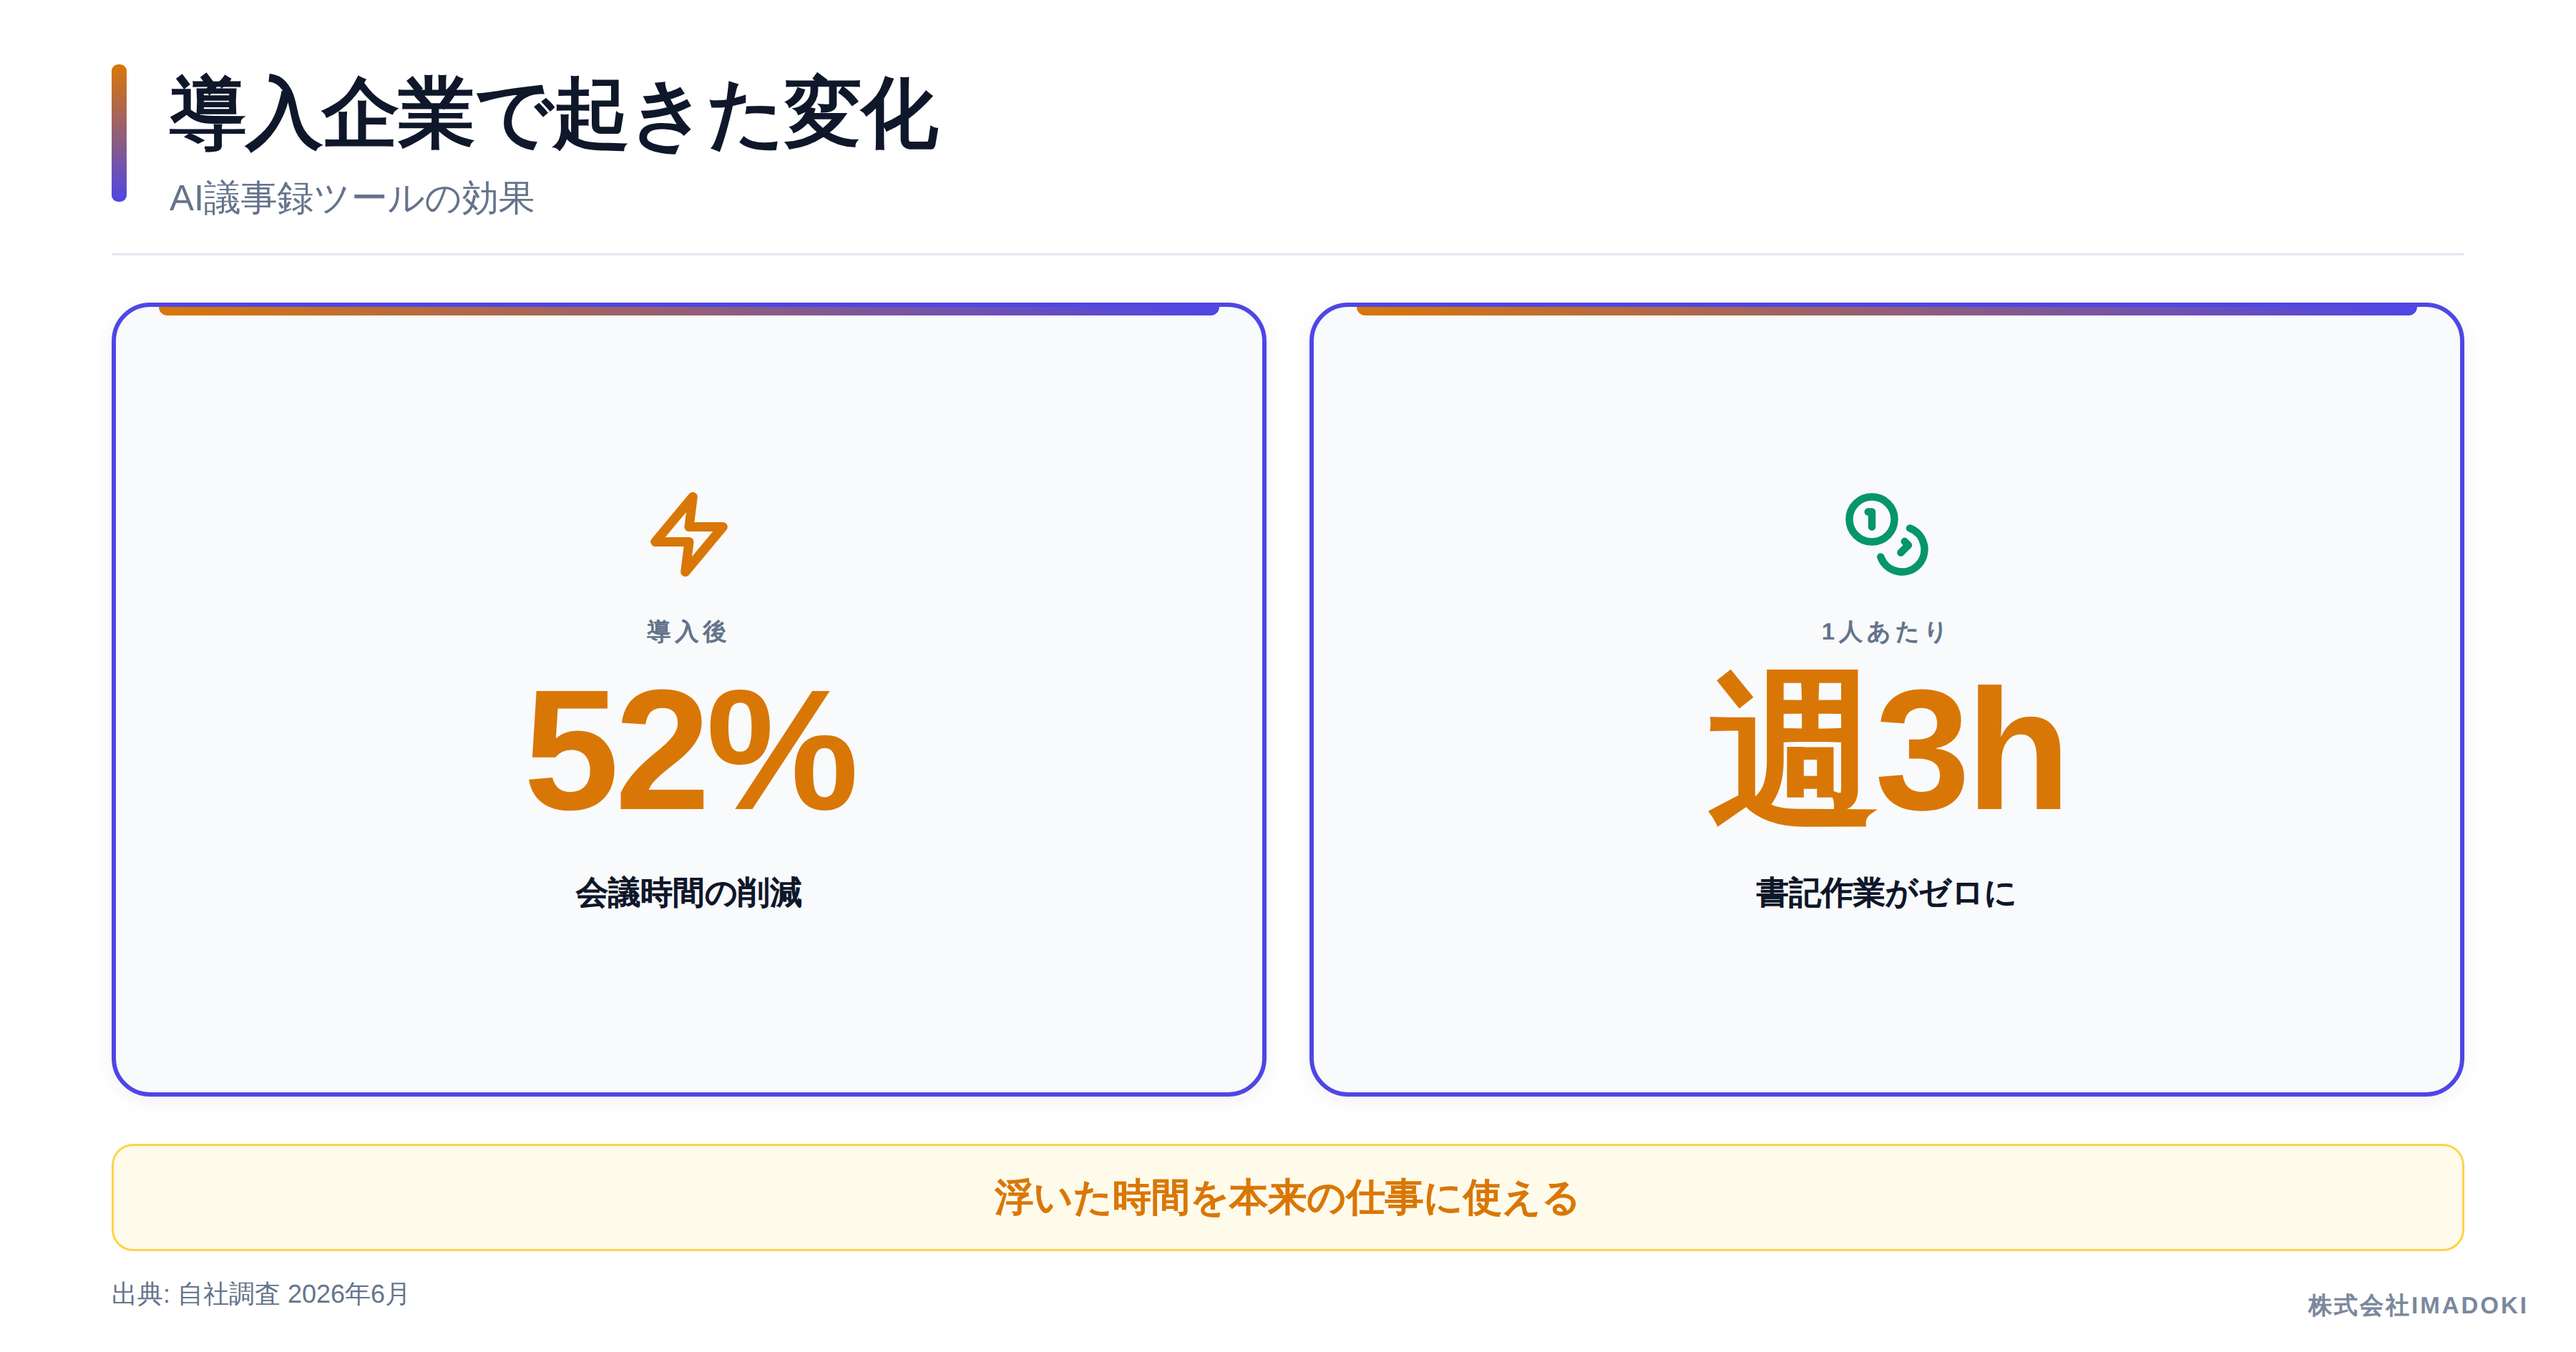
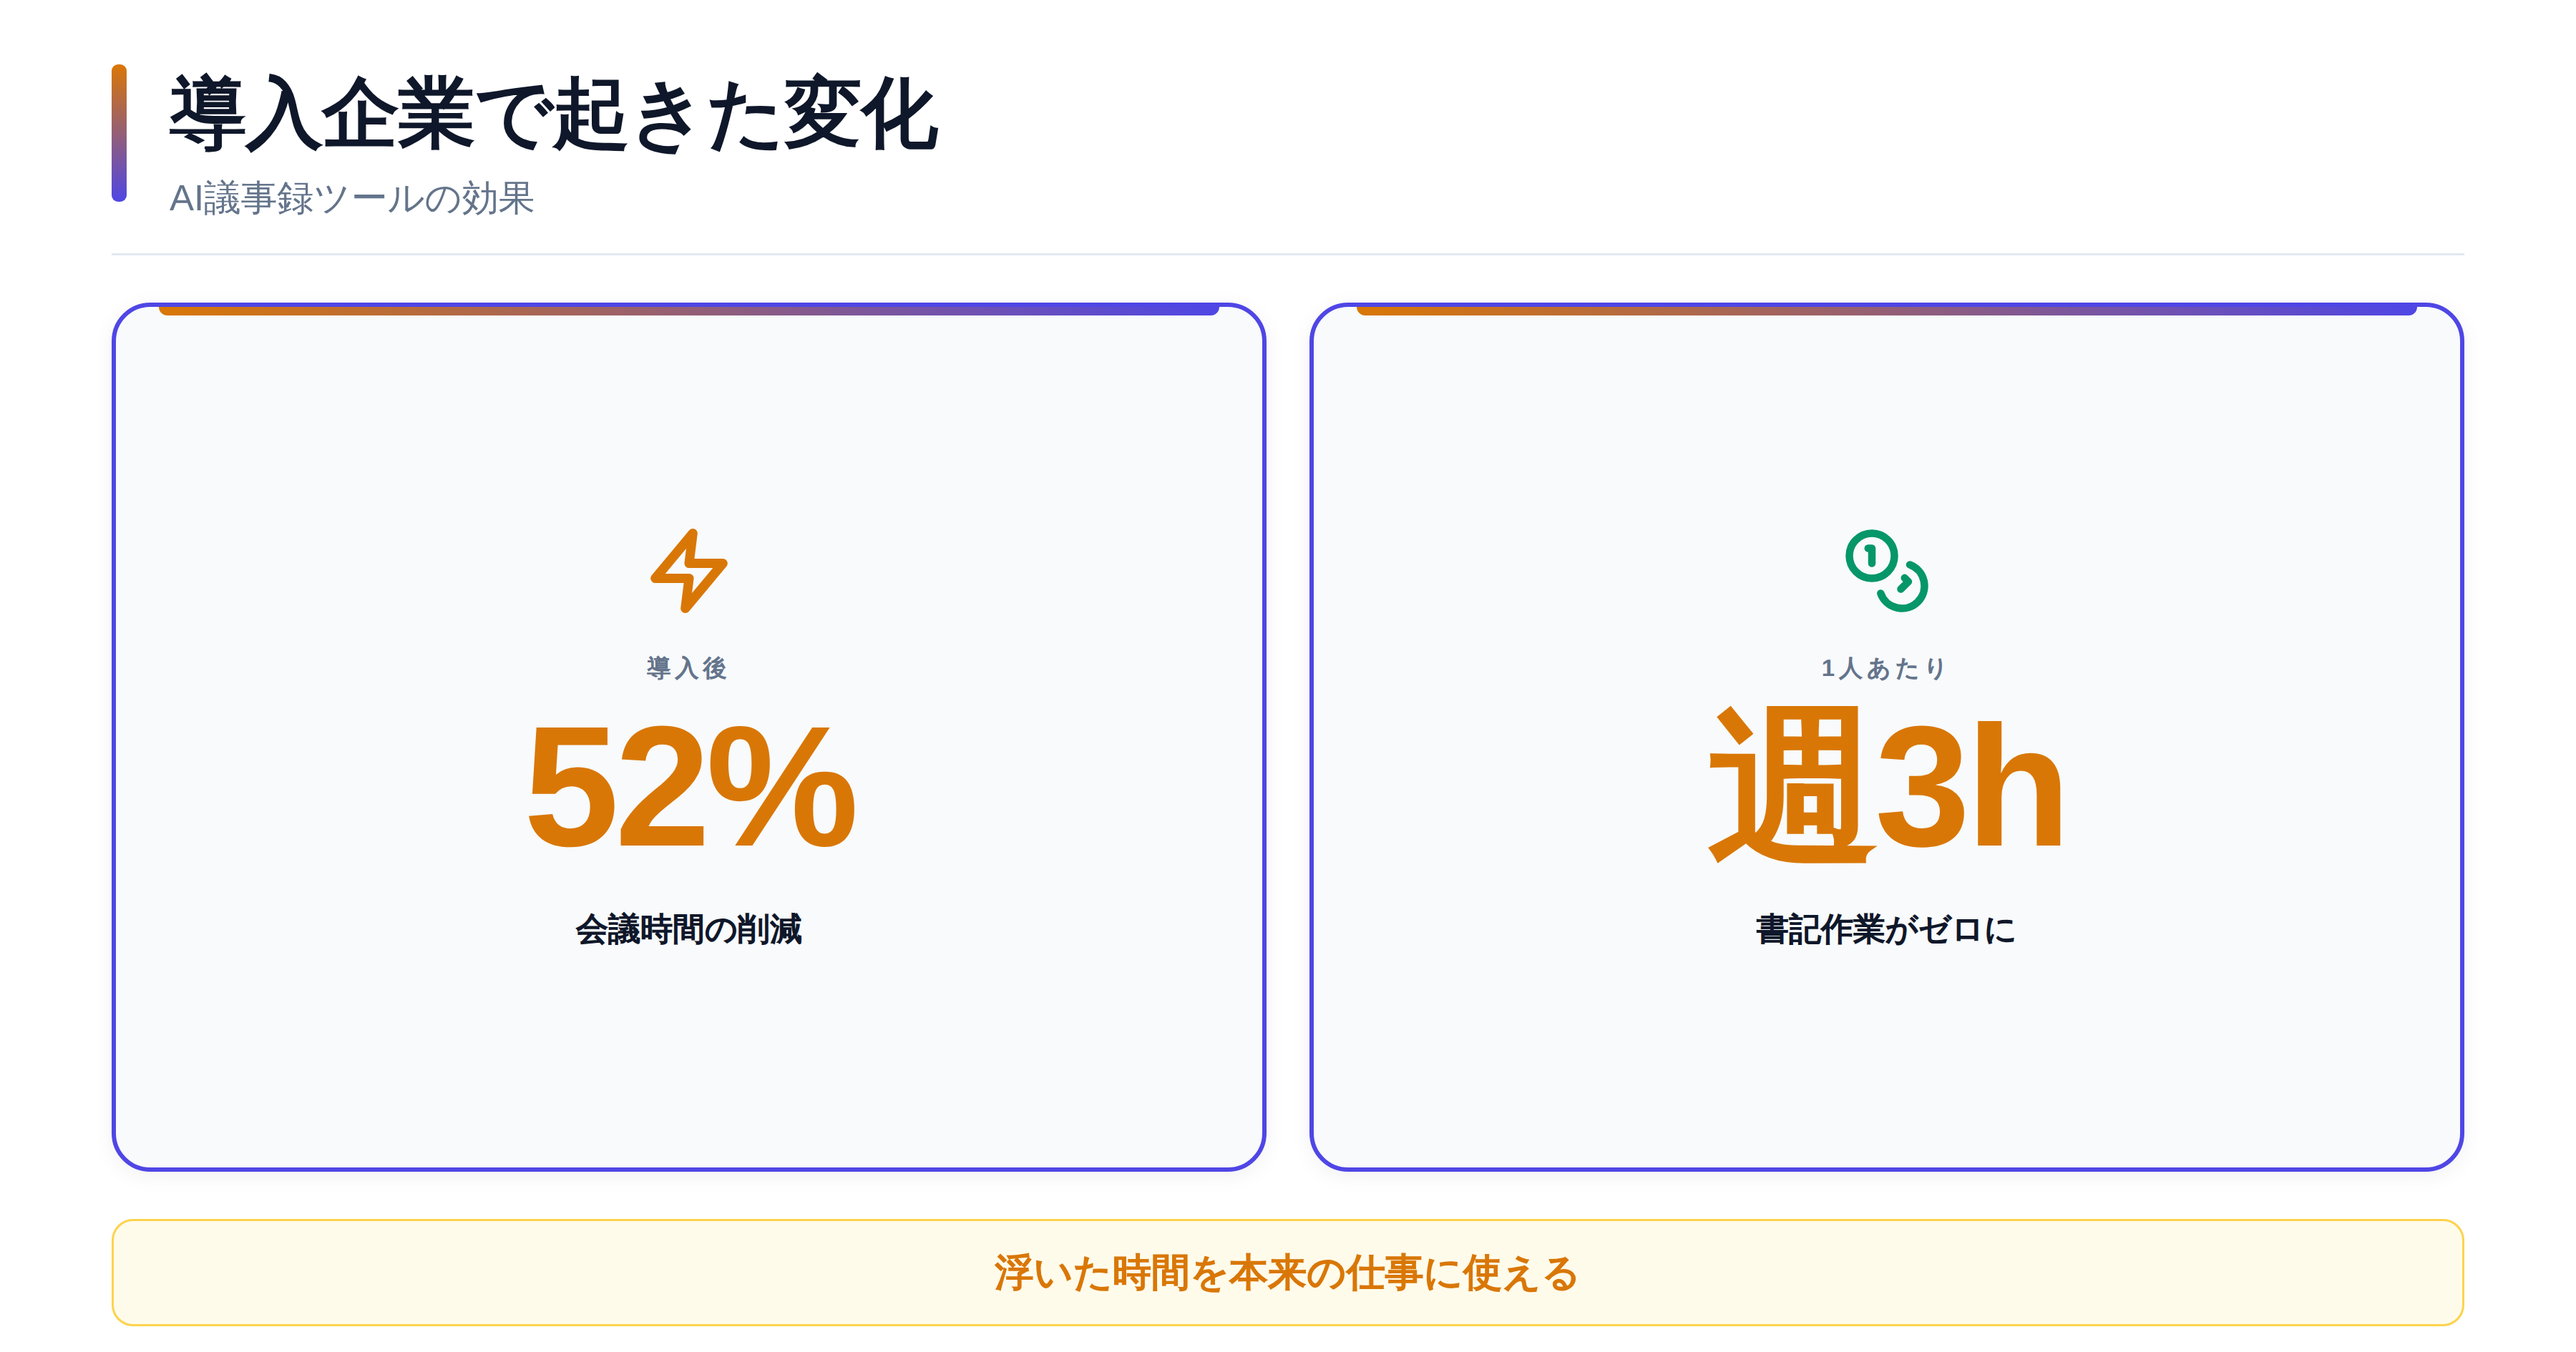
Clean sample images and add X/Threads post mockups to LP
Sample images (docs/assets/):
- regenerated all three without the 株式会社IMADOKI watermark, the
  1/3 page badge, and the fabricated-looking source caption — the
  tiny illegible text that read as mojibake at gallery scale is gone

X/Threads post preview:
- new sub-section in the proof gallery 「投稿文も、XとThreadsで自動
  書き分け」 with two CSS-built post cards: the X version (assertive,
  line-broken, with a 図解3枚+リプライ attach note) and the Threads
  version (conversational, question-ended) of the same theme,
  both adapted from actual AI-generated drafts
- captioned 「どちらも同じ朝に、同じテーマから自動生成された文章です」
- footer icons are neutral gray inline SVGs (no colored emoji mix),
  no fabricated engagement numbers

Claude-Session: https://claude.ai/code/session_01XuC2qznjLELSFa6zv1RE5v

diff --git a/docs/index.html b/docs/index.html
@@ -100,6 +100,25 @@ h1 .hl{color:var(--indigo);}
 .nm-caption{text-align:center;font-size:14.5px;color:var(--body);margin-top:18px;}
 @media(max-width:640px){.nm-head{grid-template-columns:1fr 110px;}.nm-head span:nth-child(2){display:none;}.nm-row{grid-template-columns:1fr 110px;}.nm-row .nm-img{display:none;}}
 
+/* X / Threads 投稿モック */
+.sns-sub{max-width:900px;margin:70px auto 0;text-align:center;}
+.sns-sub h3{font-size:25px;font-weight:900;margin-bottom:10px;}
+.sns-sub .lead{font-size:15px;}
+.sns-grid{display:grid;grid-template-columns:1fr 1fr;gap:22px;max-width:920px;margin:34px auto 0;align-items:start;}
+@media(max-width:820px){.sns-grid{grid-template-columns:1fr;}}
+.sns-label{font-size:13px;font-weight:700;color:var(--muted);margin-bottom:10px;text-align:left;}
+.sns-label b{color:var(--ink);}
+.sns-card{background:#fff;border:1px solid var(--line);border-radius:16px;padding:20px 22px;box-shadow:0 10px 30px rgba(15,23,42,.07);text-align:left;}
+.sns-head{display:flex;align-items:center;gap:11px;margin-bottom:12px;}
+.sns-ava{width:42px;height:42px;border-radius:50%;background:linear-gradient(135deg,var(--indigo),var(--amber-btn));flex-shrink:0;}
+.sns-name b{display:block;font-size:14px;line-height:1.3;}
+.sns-name span{font-size:12.5px;color:var(--faint);}
+.sns-tag{margin-left:auto;font-size:11px;font-weight:900;padding:4px 12px;border-radius:999px;background:var(--ink);color:#fff;}
+.sns-body{font-size:13.5px;color:var(--body);line-height:1.8;white-space:pre-line;}
+.sns-attach{margin-top:12px;border:1px solid var(--line);border-radius:12px;overflow:hidden;}
+.sns-attach-note{display:flex;align-items:center;gap:8px;margin-top:12px;background:var(--soft);border:1px dashed #cbd5e1;border-radius:10px;padding:9px 14px;font-size:12.5px;color:var(--muted);}
+.sns-foot{display:flex;gap:34px;color:var(--faint);font-size:14px;margin-top:14px;padding-top:11px;border-top:1px solid var(--soft2);}
+
 /* ギャラリー */
 figure.shot{background:#fff;border:1px solid var(--line);border-radius:18px;overflow:hidden;box-shadow:0 1px 4px rgba(15,23,42,.04);transition:box-shadow .2s;}
 figure.shot:hover{box-shadow:0 14px 34px rgba(15,23,42,.12);}
@@ -317,6 +336,60 @@ footer{border-top:1px solid var(--line);padding:38px 0;font-size:13.5px;color:va
       </figure>
     </div>
     <div class="gallery-note">📚 <b>ストーリー仕立ての複数枚スライド（起承転結カルーセル）にも対応。</b>内容の濃いテーマは、AIが自動で最大4枚のスライドに構成します。</div>
+
+    <!-- X / Threads 書き分けモック -->
+    <div class="sns-sub">
+      <h3>投稿文も、XとThreadsで自動書き分け</h3>
+      <p class="lead">アルゴリズムが違えば、伸びる文体も違う。同じテーマでも媒体ごとに最適な文章を生成します。</p>
+    </div>
+    <div class="sns-grid">
+      <div>
+        <p class="sns-label"><b>X版</b> — 断言調・テンポ重視・図解つき</p>
+        <div class="sns-card">
+          <div class="sns-head">
+            <span class="sns-ava"></span>
+            <span class="sns-name"><b>あなたの会社</b><span>@your_company</span></span>
+            <span class="sns-tag">X</span>
+          </div>
+          <p class="sns-body">「AIのプロンプトは長いほど良い」は誤解でした。
+
+自分で5個のプロンプトを40%削って試したら『あ、本当だ』って気づいた。
+
+制約が多いと、AIは『ルールの枠を出ない』ことに頭を使ってしまう。シンプルな指示1個のほうが、100%の力を引き出せます。
+
+あなたの会社、『あれもこれも禁止』の指示になってませんか？</p>
+          <div class="sns-attach-note">🖼 図解スライド3枚を自動添付（＋補足リプライも自動投稿）</div>
+          <div class="sns-foot">
+            <svg width="17" height="17" viewBox="0 0 24 24" fill="none" stroke="currentColor" stroke-width="2" stroke-linecap="round" stroke-linejoin="round"><path d="M21 11.5a8.38 8.38 0 0 1-8.5 8.5 8.5 8.5 0 0 1-3.8-.9L3 21l1.9-5.7a8.5 8.5 0 1 1 16.1-3.8z"/></svg>
+            <svg width="17" height="17" viewBox="0 0 24 24" fill="none" stroke="currentColor" stroke-width="2" stroke-linecap="round" stroke-linejoin="round"><polyline points="17 1 21 5 17 9"/><path d="M3 11V9a4 4 0 0 1 4-4h14"/><polyline points="7 23 3 19 7 15"/><path d="M21 13v2a4 4 0 0 1-4 4H3"/></svg>
+            <svg width="17" height="17" viewBox="0 0 24 24" fill="none" stroke="currentColor" stroke-width="2" stroke-linecap="round" stroke-linejoin="round"><path d="M20.84 4.61a5.5 5.5 0 0 0-7.78 0L12 5.67l-1.06-1.06a5.5 5.5 0 0 0-7.78 7.78l1.06 1.06L12 21.23l7.78-7.78 1.06-1.06a5.5 5.5 0 0 0 0-7.78z"/></svg>
+            <svg width="17" height="17" viewBox="0 0 24 24" fill="none" stroke="currentColor" stroke-width="2" stroke-linecap="round" stroke-linejoin="round"><path d="M19 21l-7-5-7 5V5a2 2 0 0 1 2-2h10a2 2 0 0 1 2 2z"/></svg>
+          </div>
+        </div>
+      </div>
+      <div>
+        <p class="sns-label"><b>Threads版</b> — 会話調・問いかけでリプライを誘う</p>
+        <div class="sns-card">
+          <div class="sns-head">
+            <span class="sns-ava"></span>
+            <span class="sns-name"><b>あなたの会社</b><span>your_company</span></span>
+            <span class="sns-tag">Threads</span>
+          </div>
+          <p class="sns-body">AIのプロンプトって長いほど良いと思ってたんですけど、削った方が良くなるって、実際やってみて初めて理解しました。
+
+指示が多いとAIも『ルールの中で頑張ろう』みたいになって、本来の力が出せないんですね。わりと人間の組織と同じだ。
+
+みなさんの会社の業務マニュアルとか部下への指示、『本当に全部必要？』って見直してみませんか？</p>
+          <div class="sns-foot">
+            <svg width="17" height="17" viewBox="0 0 24 24" fill="none" stroke="currentColor" stroke-width="2" stroke-linecap="round" stroke-linejoin="round"><path d="M20.84 4.61a5.5 5.5 0 0 0-7.78 0L12 5.67l-1.06-1.06a5.5 5.5 0 0 0-7.78 7.78l1.06 1.06L12 21.23l7.78-7.78 1.06-1.06a5.5 5.5 0 0 0 0-7.78z"/></svg>
+            <svg width="17" height="17" viewBox="0 0 24 24" fill="none" stroke="currentColor" stroke-width="2" stroke-linecap="round" stroke-linejoin="round"><path d="M21 11.5a8.38 8.38 0 0 1-8.5 8.5 8.5 8.5 0 0 1-3.8-.9L3 21l1.9-5.7a8.5 8.5 0 1 1 16.1-3.8z"/></svg>
+            <svg width="17" height="17" viewBox="0 0 24 24" fill="none" stroke="currentColor" stroke-width="2" stroke-linecap="round" stroke-linejoin="round"><polyline points="17 1 21 5 17 9"/><path d="M3 11V9a4 4 0 0 1 4-4h14"/><polyline points="7 23 3 19 7 15"/><path d="M21 13v2a4 4 0 0 1-4 4H3"/></svg>
+            <svg width="17" height="17" viewBox="0 0 24 24" fill="none" stroke="currentColor" stroke-width="2" stroke-linecap="round" stroke-linejoin="round"><line x1="22" y1="2" x2="11" y2="13"/><polygon points="22 2 15 22 11 13 2 9 22 2"/></svg>
+          </div>
+        </div>
+      </div>
+    </div>
+    <p class="nm-caption">どちらも同じ朝に、同じテーマから自動生成された文章です。</p>
   </div>
 </section>
 
